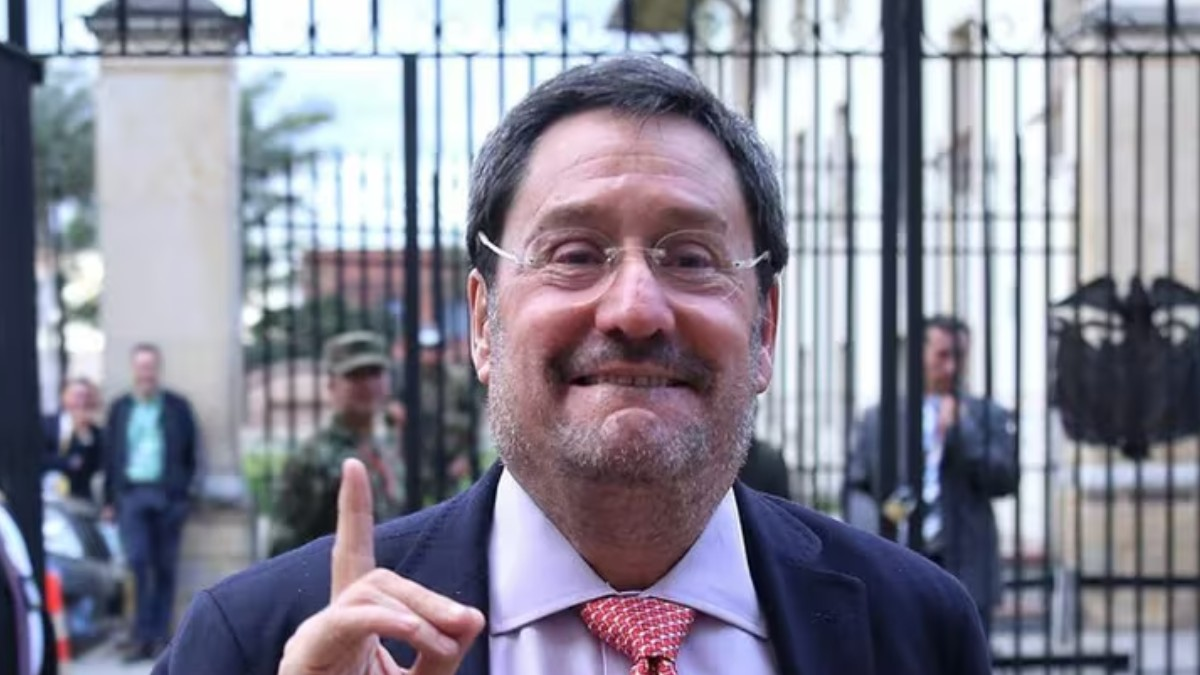
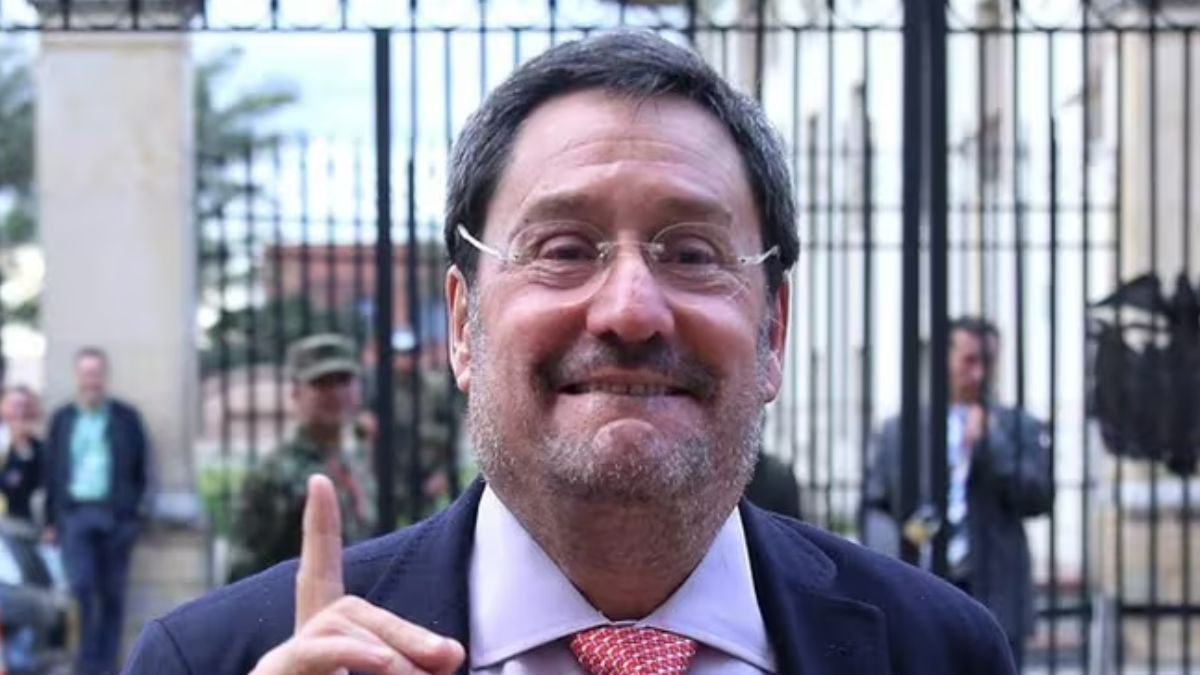
👷 revelación y la cola al burro

diff --git a/src/revelacion/revelacion.ts b/src/revelacion/revelacion.ts
@@ -10,8 +10,10 @@ const lienzo = document.createElement('canvas');
 const lienzoImg = document.createElement('canvas');
 const ctx = lienzo.getContext('2d') as CanvasRenderingContext2D;
 const ctxImg = lienzoImg.getContext('2d') as CanvasRenderingContext2D;
+const botonRecargar = document.getElementById('botonRecargar');
+const imagen = document.getElementById('foto') as HTMLImageElement;
 
-const imagenes = ['petromanos', 'palomamanos', 'cabalmanos', 'duquemanos', 'ingridmanos'];
+const imagenes = ['petromanos', 'palomamanos', 'cabalmanos', 'duquemanos', 'ingridmanos', 'rhernandezmanos'];
 
 const vision = await FilesetResolver.forVisionTasks();
 const marcadores = await PoseLandmarker.createFromOptions(vision, {
@@ -28,7 +30,10 @@ const marcadoresImg = await PoseLandmarker.createFromOptions(vision, {
   // outputSegmentationMasks: true
 });
 const marcasDelCuerpo = PoseLandmarker.POSE_CONNECTIONS;
-const imagen = document.getElementById('foto') as HTMLImageElement;
+
+botonRecargar?.addEventListener('click', () => {
+  window.location.reload();
+});
 
 imagen.src = `${imagenes[aleatorio(imagenes)]}.jpg`;
 
@@ -68,16 +73,16 @@ async function inicio() {
 
     let compararPuntos = (puntos) => {
       return (
-        Math.sqrt(Math.pow(puntos[0].x - puntosImg[0].x, 2)) < 0.05 && // nariz
-        Math.sqrt(Math.pow(puntos[0].y - puntosImg[0].y, 2)) < 0.05 &&
-        Math.sqrt(Math.pow(puntos[9].x - puntosImg[9].x, 2)) < 0.05 && // boca izq
-        Math.sqrt(Math.pow(puntos[9].y - puntosImg[9].y, 2)) < 0.05 &&
+        Math.sqrt(Math.pow(puntos[0].x - puntosImg[0].x, 2)) < 0.08 && // nariz
+        Math.sqrt(Math.pow(puntos[0].y - puntosImg[0].y, 2)) < 0.08 &&
+        Math.sqrt(Math.pow(puntos[9].x - puntosImg[9].x, 2)) < 0.08 && // boca izq
+        Math.sqrt(Math.pow(puntos[9].y - puntosImg[9].y, 2)) < 0.08 &&
         /*         Math.sqrt(Math.pow(puntos[10].x - puntosImg[10].x, 2)) < 0.05 && // boca der
         Math.sqrt(Math.pow(puntos[10].y - puntosImg[10].y, 2)) < 0.05 && */
-        Math.sqrt(Math.pow(puntos[15].x - puntosImg[15].x, 2)) < 0.05 && // muñeca izquierda
-        Math.sqrt(Math.pow(puntos[15].y - puntosImg[15].y, 2)) < 0.05 &&
-        Math.sqrt(Math.pow(puntos[16].x - puntosImg[16].x, 2)) < 0.05 && // muñeca derecha
-        Math.sqrt(Math.pow(puntos[16].y - puntosImg[16].y, 2)) < 0.05
+        Math.sqrt(Math.pow(puntos[15].x - puntosImg[15].x, 2)) < 0.08 && // muñeca izquierda
+        Math.sqrt(Math.pow(puntos[15].y - puntosImg[15].y, 2)) < 0.08 &&
+        Math.sqrt(Math.pow(puntos[16].x - puntosImg[16].x, 2)) < 0.08 && // muñeca derecha
+        Math.sqrt(Math.pow(puntos[16].y - puntosImg[16].y, 2)) < 0.08
       );
     };
 

diff --git a/laColaAlBurro.html b/laColaAlBurro.html
@@ -36,15 +36,15 @@
     <!-- <meta name="twitter:image:alt" content="Texto que describe la imagen" /> -->
   </head>
   <body>
-    <ul id="menu">
+    <!--  <ul id="menu">
       <li><a href="/" class="actual">esqueleto</a></li>
       <li><a href="/liquido">líquido</a></li>
       <li><a href="/rendijasEnElTiempo">rendijas en el tiempo</a></li>
       <li><a href="//detectorObjetos">detector de objetos</a></li>
-    </ul>
+    </ul> -->
 
     <div id="contenedorMarioneta">
-      <h2>Póngale la nariz al...</h2>
+      <!--  <h2>Póngale la nariz al...</h2> -->
       <!--   <div id="contenedorPersonajes">
         <img class="personaje" src="./petro4.jpg" />
         <img class="personaje" src="./cabal4.jpg" />
@@ -64,7 +64,9 @@
       </div>
     </div>
 
-    <script type="module" src="/src/marionetaPrueba/marionetaPrueba.ts"></script>
+    <div id="botonRecargar">Otra vez</div>
+
+    <script type="module" src="/src/laColaAlBurro/laColaAlBurro.ts"></script>
 
     <style>
       body {
@@ -137,6 +139,24 @@
           &::after {
             //content: attr(data-corner);
           }
+        }
+      }
+
+      #botonRecargar {
+        cursor: pointer;
+        padding: 0.3em;
+        border: black solid 2px;
+        background-color: gold;
+        width: fit-content;
+        border-radius: 5px;
+        position: absolute;
+        bottom: 3%;
+        right: 3%;
+        z-index: 2;
+
+        &:hover {
+          background-color: rgba(198, 22, 22, 0.601);
+          color: white;
         }
       }
     </style>

diff --git a/src/laColaAlBurro/laColaAlBurro.ts b/src/laColaAlBurro/laColaAlBurro.ts
@@ -8,6 +8,7 @@ import { aleatorio } from '../ayudas/ayudas';
 
 let reloj = 0;
 
+const botonRecargar = document.getElementById('botonRecargar');
 const lienzo = document.createElement('canvas');
 const ctx = lienzo.getContext('2d') as CanvasRenderingContext2D;
 const vision = await FilesetResolver.forVisionTasks();
@@ -18,8 +19,11 @@ const marcadores = await PoseLandmarker.createFromOptions(vision, {
   // outputSegmentationMasks: true
 });
 const marcasDelCuerpo = PoseLandmarker.POSE_CONNECTIONS;
+const imagenes = ['petrocara', 'duquecara', 'pachocara', 'palomacara', 'vargasllerascara', 'irenevelezcara'];
 
-const imagenes = ['petro4', 'duquecara', 'pachocara', 'palomacara'];
+botonRecargar?.addEventListener('click', () => {
+  window.location.reload();
+});
 
 function escalar(camara: HTMLVideoElement) {
   lienzo.width = camara.videoWidth;

diff --git a/revelacion.html b/revelacion.html
@@ -37,12 +37,30 @@
   <body>
     <img id="foto" src="" />
     <!--   <video id="camara"></video> -->
-    <script type="module" src="/src/esqueleto/esqueletoCopia.ts"></script>
+    <div id="botonRecargar">Otra vez</div>
+    <script type="module" src="/src/revelacion/revelacion.ts"></script>
   </body>
 </html>
 
 <style>
   #foto {
     height: 0;
+  }
+
+  #botonRecargar {
+    cursor: pointer;
+    padding: 0.3em;
+    border: black solid 2px;
+    background-color: #ff75a4a1;
+    width: fit-content;
+    border-radius: 5px;
+    position: absolute;
+    bottom: 4%;
+    right: 4%;
+    z-index: 2;
+
+    &:hover {
+      background-color: #8bc34acc;
+    }
   }
 </style>
